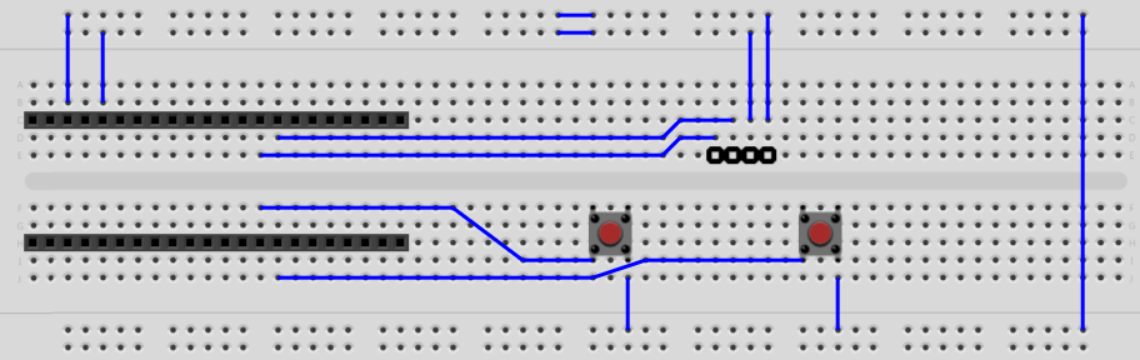
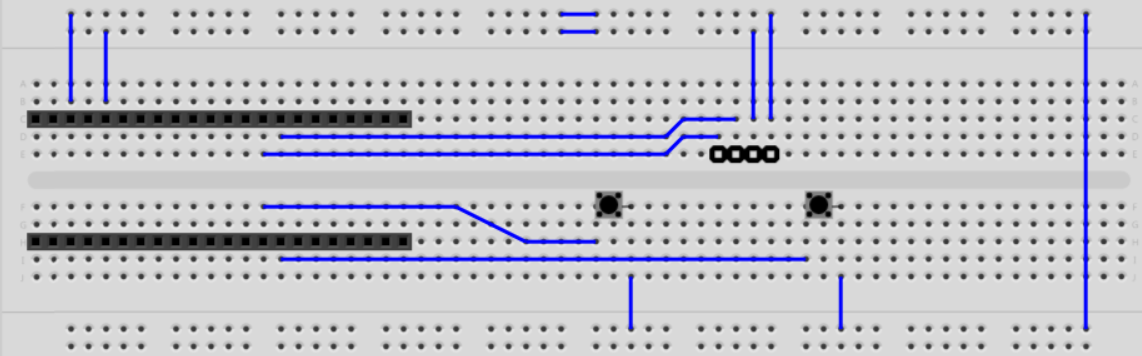
new directory: sigrok and testbench

Changed region(s): [[0.0, 0.0309, 0.9825, 0.9888]]

diff --git a/3_sigrok_blink/README.md b/3_sigrok_blink/README.md
@@ -1,0 +1,19 @@
+# windows
+
+> install wsl2
+> install vscode
+> install apio
+> install sigrok
+
+> open vscode wsl2 terminal
+> > in wsl2 terminal, open directory
+
+> open powershell
+> > usbipd list
+> > usbipd attach --wsl --busid <your_device_BUSID>
+
+> in wsl2 terminal: `make all`, `make load`
+> in sigrok
+> > config driver and set to 12MHz
+> > `run`
+> > press button on breadboard, then run again to see the changes
